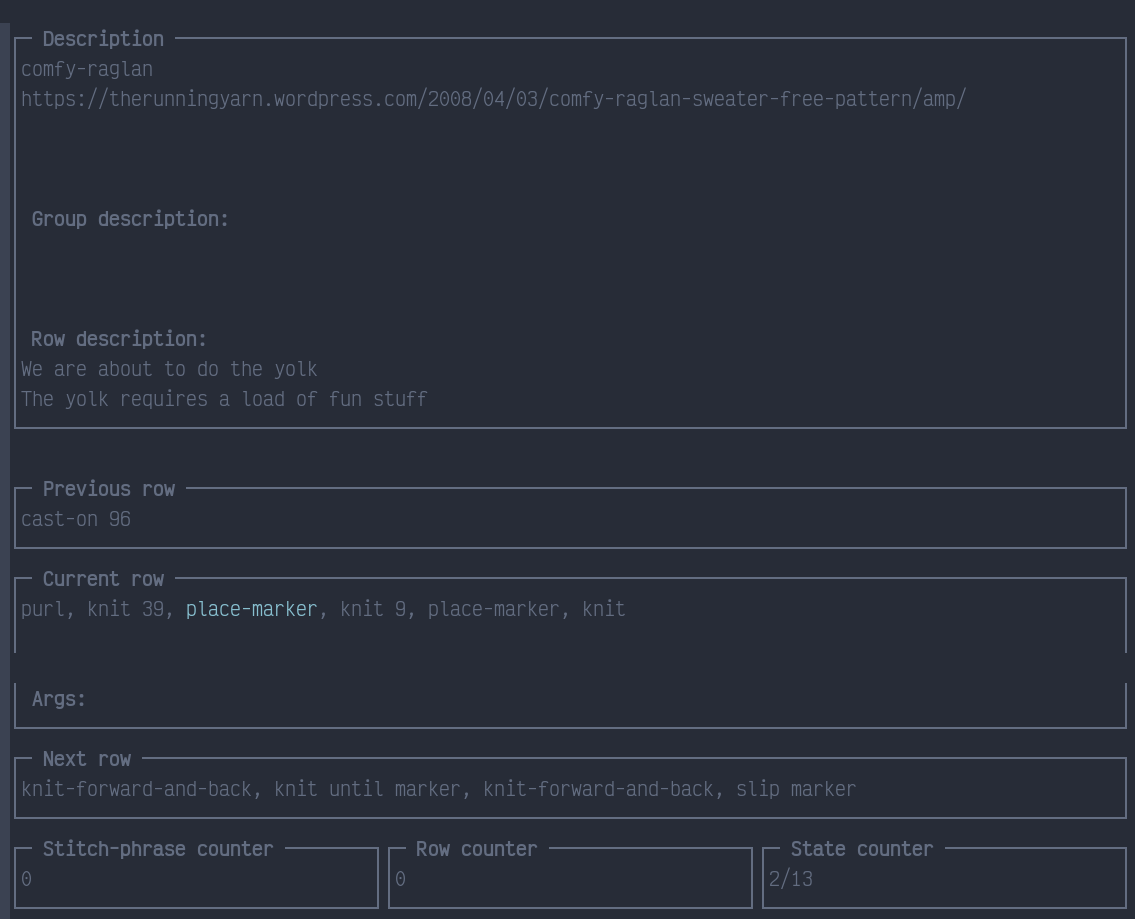
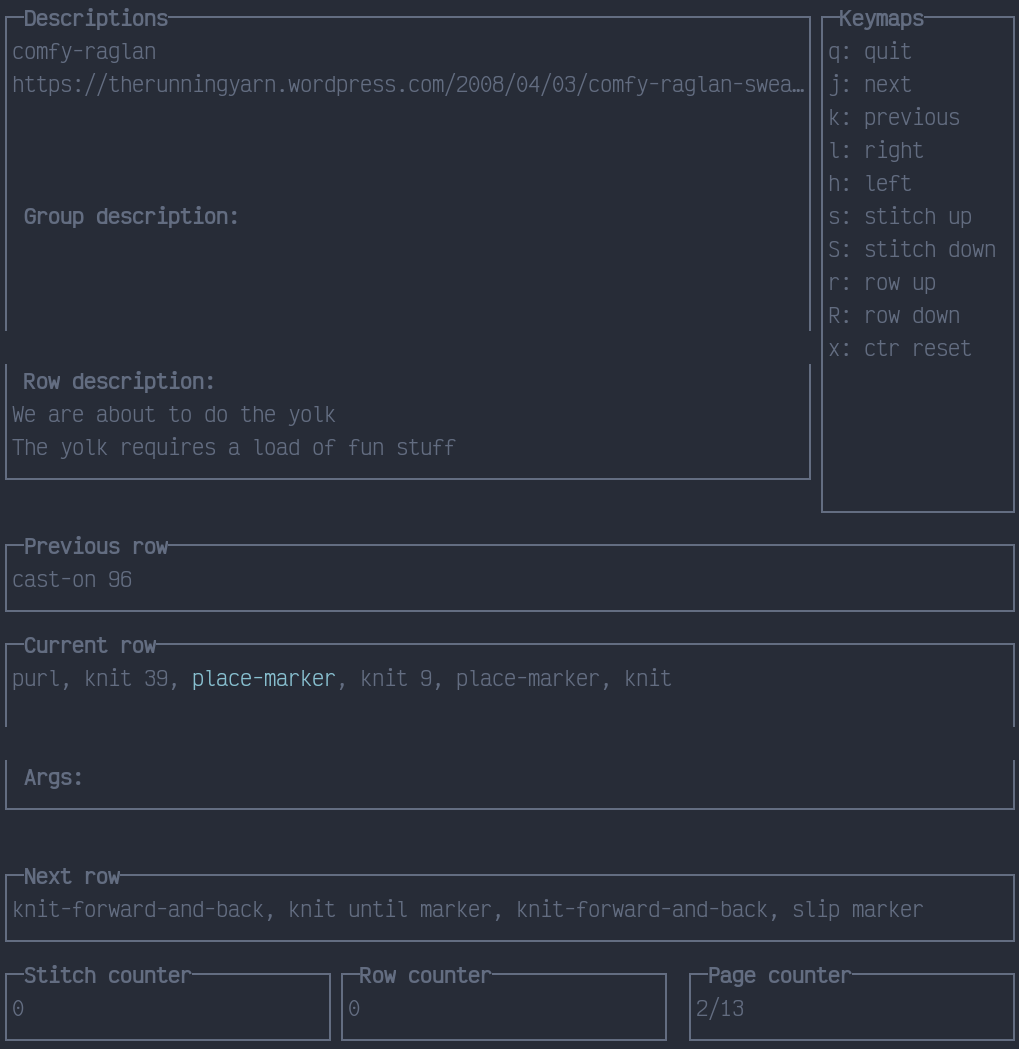
fix(descs): Descriptions on prev state

Changed region(s): [[0.0, 0.0, 1.0, 1.0]]

diff --git a/tui/tui.go b/tui/tui.go
@@ -22,6 +22,7 @@ const (
 
 type Screen struct {
 	engine *ast.Engine
+	keymapsPar,
 	blockDescPar,
 	groupDescPar,
 	rowDescPar,
@@ -61,8 +62,22 @@ func prettyRowWithHighlight(state *ast.CurrentState) string {
 }
 
 func (s *Screen) paragraphSetup() {
+	s.keymapsPar = w.NewParagraph()
+	s.keymapsPar.Title = "Keymaps"
+	s.keymapsPar.TitleStyle.Modifier = ui.ModifierBold
+	s.keymapsPar.Text = `q: quit
+j: next
+k: previous
+l: right
+h: left
+s: stitch up
+S: stitch down
+r: row up
+R: row down
+x: ctr reset`
+
 	s.blockDescPar = w.NewParagraph()
-	s.blockDescPar.Title = " Description "
+	s.blockDescPar.Title = "Descriptions"
 	s.blockDescPar.TitleStyle.Modifier = ui.ModifierBold
 	s.blockDescPar.BorderBottom = false
 
@@ -78,19 +93,19 @@ func (s *Screen) paragraphSetup() {
 	s.rowDescPar.BorderTop = false
 
 	s.rowCtrPar = w.NewParagraph()
-	s.rowCtrPar.Title = " Row counter "
+	s.rowCtrPar.Title = "Row counter"
 	s.rowCtrPar.TitleStyle.Modifier = ui.ModifierBold
 
 	s.stitchCtrPar = w.NewParagraph()
-	s.stitchCtrPar.Title = " Stitch-phrase counter "
+	s.stitchCtrPar.Title = "Stitch counter"
 	s.stitchCtrPar.TitleStyle.Modifier = ui.ModifierBold
 
 	s.stateCtrPar = w.NewParagraph()
-	s.stateCtrPar.Title = " State counter "
+	s.stateCtrPar.Title = "Page counter"
 	s.stateCtrPar.TitleStyle.Modifier = ui.ModifierBold
 
 	s.currentRowPar = w.NewParagraph()
-	s.currentRowPar.Title = " Current row "
+	s.currentRowPar.Title = "Current row"
 	s.currentRowPar.TitleStyle.Modifier = ui.ModifierBold
 	s.currentRowPar.BorderBottom = false
 
@@ -100,24 +115,18 @@ func (s *Screen) paragraphSetup() {
 	s.argsPar.BorderTop = false
 
 	s.nextRow = w.NewParagraph()
-	s.nextRow.Title = " Next row "
+	s.nextRow.Title = "Next row"
 	s.nextRow.TitleStyle.Modifier = ui.ModifierBold
 
 	s.prevRow = w.NewParagraph()
-	s.prevRow.Title = " Previous row "
+	s.prevRow.Title = "Previous row"
 	s.prevRow.TitleStyle.Modifier = ui.ModifierBold
 }
 
 func (s *Screen) setParagraphs(state *ast.CurrentState) error {
-	if len(state.Desc.Block) != 0 {
-		s.blockDescPar.Text = state.Desc.Block
-	}
-	if len(state.Desc.Group) != 0 {
-		s.groupDescPar.Text = state.Desc.Group
-	}
-	if len(state.Desc.Row) != 0 {
-		s.rowDescPar.Text = state.Desc.Row
-	}
+	s.blockDescPar.Text = state.Desc.Block
+	s.groupDescPar.Text = state.Desc.Group
+	s.rowDescPar.Text = state.Desc.Row
 	s.rowCtrPar.Text = strconv.Itoa(state.Ctr.Row)
 	s.stitchCtrPar.Text = strconv.Itoa(state.Ctr.Stitch)
 	s.stateCtrPar.Text = fmt.Sprintf("%d/%d", s.engine.StateIdx, len(s.engine.States)-1)
@@ -158,12 +167,13 @@ func (s *Screen) Run() error {
 
 	grid.Set(
 		ui.NewRow(0.5,
-			ui.NewCol(1.0,
+			ui.NewCol(0.8,
 				// Descriptions
 				ui.NewRow(0.4, s.blockDescPar),
 				ui.NewRow(0.3, s.groupDescPar),
 				ui.NewRow(0.3, s.rowDescPar),
 			),
+			ui.NewCol(0.2, s.keymapsPar),
 		),
 		ui.NewRow(0.4,
 			ui.NewCol(1.0,
@@ -199,7 +209,7 @@ func (s *Screen) Run() error {
 
 		case "l", "<Right>":
 			if len(state.Lc.Row) > state.Ctr.StitchPhrase+1 {
-				
+
 				state.Ctr.StitchPhrase += 1
 			}
 

diff --git a/ast/engine.go b/ast/engine.go
@@ -245,7 +245,6 @@ func (e *Engine) FormStates() {
 			}
 			state.NestedGroupCtr += 1
 		} else if lc.rowIsEqual(END_OF_GROUP_LC) {
-			state.Desc.Group = ""
 			state.NestedGroupCtr -= 1
 			log.WithField("groupCtr", state.NestedGroupCtr).Trace("[Engine.FormStates] ", strings.Repeat("  ", state.NestedGroupCtr), "End of group")
 		} else if lc.rowIsEqual(START_OF_ROW_LC) {
@@ -258,7 +257,6 @@ func (e *Engine) FormStates() {
 			}
 			state.NestedRowCtr += 1
 		} else if lc.rowIsEqual(END_OF_ROW_LC) {
-			state.Desc.Row = ""
 			state.NestedRowCtr -= 1
 			log.WithField("rowCtr", state.NestedRowCtr).Trace("[Engine.FormStates] ", strings.Repeat("  ", state.NestedRowCtr), "End of row")
 		} else {

diff --git a/main.go b/main.go
@@ -135,14 +135,12 @@ func main() {
 		panic(err)
 	}
 
-	// engineData.PrintLines()
-
 	log.Info("Creating engine from data")
-	e := ast.MakeEngine(engineData)
-	e.FormStates()
+	engine := ast.MakeEngine(engineData)
+	engine.FormStates()
 
 	// e.PrintEngine()
 
-	tui := tui.NewScreen(&e)
+	tui := tui.NewScreen(&engine)
 	tui.Run()
 }
